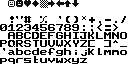
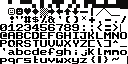
add shift instructions + keyboard stuff

diff --git a/emu/source/emu.c b/emu/source/emu.c
@@ -614,6 +614,66 @@ void Emu_RunInsts(int times) {
 				Emu_WriteReg16(pd, v - 1);
 				break;
 			}
+			case 0x64: { // SHL Rd, N4
+				uint8_t param = NextByte();
+				DEC_RD(param);
+				param &= 0xF;
+
+				Emu_WriteReg8(rd, Emu_ReadReg8(rd) << param);
+				break;
+			}
+			case 0x65: { // SHL Pd, N4
+				uint8_t param = NextByte();
+				DEC_PD(param);
+				param &= 0xF;
+
+				Emu_WriteReg16(pd, Emu_ReadReg16(pd) << param);
+				break;
+			}
+			case 0x66: { // SHL Rd, N4
+				uint8_t param = NextByte();
+				DEC_RD(param);
+				param &= 0xF;
+
+				Emu_WriteReg8(rd, Emu_ReadReg8(rd) >> param);
+				break;
+			}
+			case 0x67: { // SHL Pd, N4
+				uint8_t param = NextByte();
+				DEC_PD(param);
+				param &= 0xF;
+
+				Emu_WriteReg16(pd, Emu_ReadReg16(pd) >> param);
+				break;
+			}
+			case 0x68: { // SHL Rd, Rs
+				uint8_t param = NextByte();
+				DEC_RD_RS(param);
+
+				Emu_WriteReg8(rd, Emu_ReadReg8(rd) << Emu_ReadReg8(rs));
+				break;
+			}
+			case 0x69: { // SHL Pd, Ps
+				uint8_t param = NextByte();
+				DEC_PD_PS(param);
+
+				Emu_WriteReg8(pd, Emu_ReadReg8(pd) << Emu_ReadReg8(ps));
+				break;
+			}
+			case 0x6A: { // SHR Rd, Rs
+				uint8_t param = NextByte();
+				DEC_RD_RS(param);
+
+				Emu_WriteReg8(rd, Emu_ReadReg8(rd) >> Emu_ReadReg8(rs));
+				break;
+			}
+			case 0x6B: { // SHR Pd, Ps
+				uint8_t param = NextByte();
+				DEC_PD_PS(param);
+
+				Emu_WriteReg8(pd, Emu_ReadReg8(pd) >> Emu_ReadReg8(ps));
+				break;
+			}
 			default: {
 				fprintf(stderr, "Invalid opcode %.2X at %.4X\n", opc, (int) opcAddr);
 				emu.halted = true;

diff --git a/docs/cpu.md b/docs/cpu.md
@@ -109,9 +109,9 @@ Flags:
 | `62`         | `01100010`   | `Rd 00000`               | DEC  | `Rd = Rd - 1`                  | ZC    | 2    |
 | `63`         | `01100011`   | `Pd 000000`              | DEC  | `Pd = Pd - 1`                  | ZC    | 2    |
 | `64`         | `01000100`   | `Rd 0 N4`                | SHL  | `Rd = Rd << N4`                | Z     | 2    |
-| `65`         | `01000101`   | `Pd 0 N4`                | SHL  | `Pd = Pd << N4`                | Z     | 2    |
+| `65`         | `01000101`   | `Pd 00 N4`               | SHL  | `Pd = Pd << N4`                | Z     | 2    |
 | `66`         | `01000110`   | `Rd 0 N4`                | SHR  | `Rd = Rd >> N4`                | Z     | 2    |
-| `67`         | `01000111`   | `Pd 0 N4`                | SHR  | `Pd = Pd >> N4`                | Z     | 2    |
+| `67`         | `01000111`   | `Pd 00 N4`               | SHR  | `Pd = Pd >> N4`                | Z     | 2    |
 | `68`         | `01001000`   | `Rd Rs 00`               | SHL  | `Rd = Rd << Rs`                | Z     | 2    |
 | `69`         | `01001001`   | `Pd Rs 000`              | SHL  | `Pd = Pd << Rs`                | Z     | 2    |
 | `6A`         | `01001010`   | `Rd Rs 00`               | SHR  | `Rd = Rd >> Rs`                | Z     | 2    |

diff --git a/docs/keyboard.md b/docs/keyboard.md
@@ -24,6 +24,8 @@ SH Z  X  C  V  B  N  M  CM DT SL SS AL AD AR
 - `SH` = Shift
 - `SS` = Symbol Shift
 - `SP` = Space
+- `MN` = minus
+- `EQ` = equals
 
 ## Data layout
 
@@ -119,7 +121,7 @@ Column 7
 | 8   |     |
 
 ## Interface
-Write to port B on the IO chip to select the column to read from, using these values:
+Write to port B (`0xD001`) on the IO chip to select the column to read from, using these values:
 
 | Column | Value |
 | ------ | ----- |
@@ -131,4 +133,4 @@ Write to port B on the IO chip to select the column to read from, using these va
 | 6      | 32    |
 | 7      | 64    |
 
-Read from port A to read a bitmask of the keys pressed on that column.
+Read from port A (`0xD000`) to read a bitmask of the keys pressed on that column.
